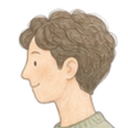
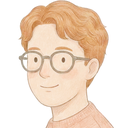
fix(site): clearer faces in the spaces diagram (#44)
## What changed

New faces for the spaces diagram on homing.place: Ana with dark hair in
a bun and a sage sweater, Ben with ginger hair, round glasses and a
peach sweater. Juniper's header no longer shows faces; its inner spaces
show who reaches each one.

## Why

The two faces cropped from the sign-in drawing looked too alike at
avatar size.

## How it was tested

`npm run check` passes. I looked at the diagram in the browser.

🤖 Generated with [Claude Code](https://claude.com/claude-code)

diff --git a/web/src/screens/landing.tsx b/web/src/screens/landing.tsx
@@ -153,18 +153,18 @@ function Face({ who }: { who: Who }) {
   return <img src={faces[who]} alt={who} title={who} width={128} height={128} className="size-7 rounded-full bg-muted object-cover" />;
 }
 
-const homes: { name: string; people: Who[]; spaces: { name: string; people?: Who[]; closed?: boolean }[] }[] = [
-  { name: 'Ana’s home', people: ['Ana'], spaces: [{ name: 'Kitchen' }, { name: 'Half marathon' }, { name: 'Family trip' }] },
+// A home shows whose it is; a shared space shows, on each space inside it, who reaches that space.
+const homes: { name: string; owner?: Who; spaces: { name: string; people?: Who[]; closed?: boolean }[] }[] = [
+  { name: 'Ana’s home', owner: 'Ana', spaces: [{ name: 'Kitchen' }, { name: 'Half marathon' }, { name: 'Family trip' }] },
   {
     name: 'Juniper',
-    people: ['Ana', 'Ben'],
     spaces: [
       { name: 'Website launch', people: ['Ana', 'Ben'] },
       { name: 'Brand refresh', people: ['Ana', 'Ben'] },
       { name: 'Budget', people: ['Ana'], closed: true },
     ],
   },
-  { name: 'Ben’s home', people: ['Ben'], spaces: [{ name: 'Garden' }, { name: 'Book club' }] },
+  { name: 'Ben’s home', owner: 'Ben', spaces: [{ name: 'Garden' }, { name: 'Book club' }] },
 ];
 
 /**
@@ -177,13 +177,9 @@ function SpacesMap() {
       <div data-ui className="grid gap-3 sm:grid-cols-3">
         {homes.map((home) => (
           <div key={home.name} className="flex flex-col gap-3 rounded-2xl bg-card p-4">
-            <div className="flex items-center justify-between gap-2">
+            <div className="flex min-h-7 items-center justify-between gap-2">
               <p className="text-[15px] font-semibold">{home.name}</p>
-              <div className="flex -space-x-1.5">
-                {home.people.map((who) => (
-                  <Face key={who} who={who} />
-                ))}
-              </div>
+              {home.owner && <Face who={home.owner} />}
             </div>
             <div className="flex flex-col gap-2">
               {home.spaces.map((space) => (
